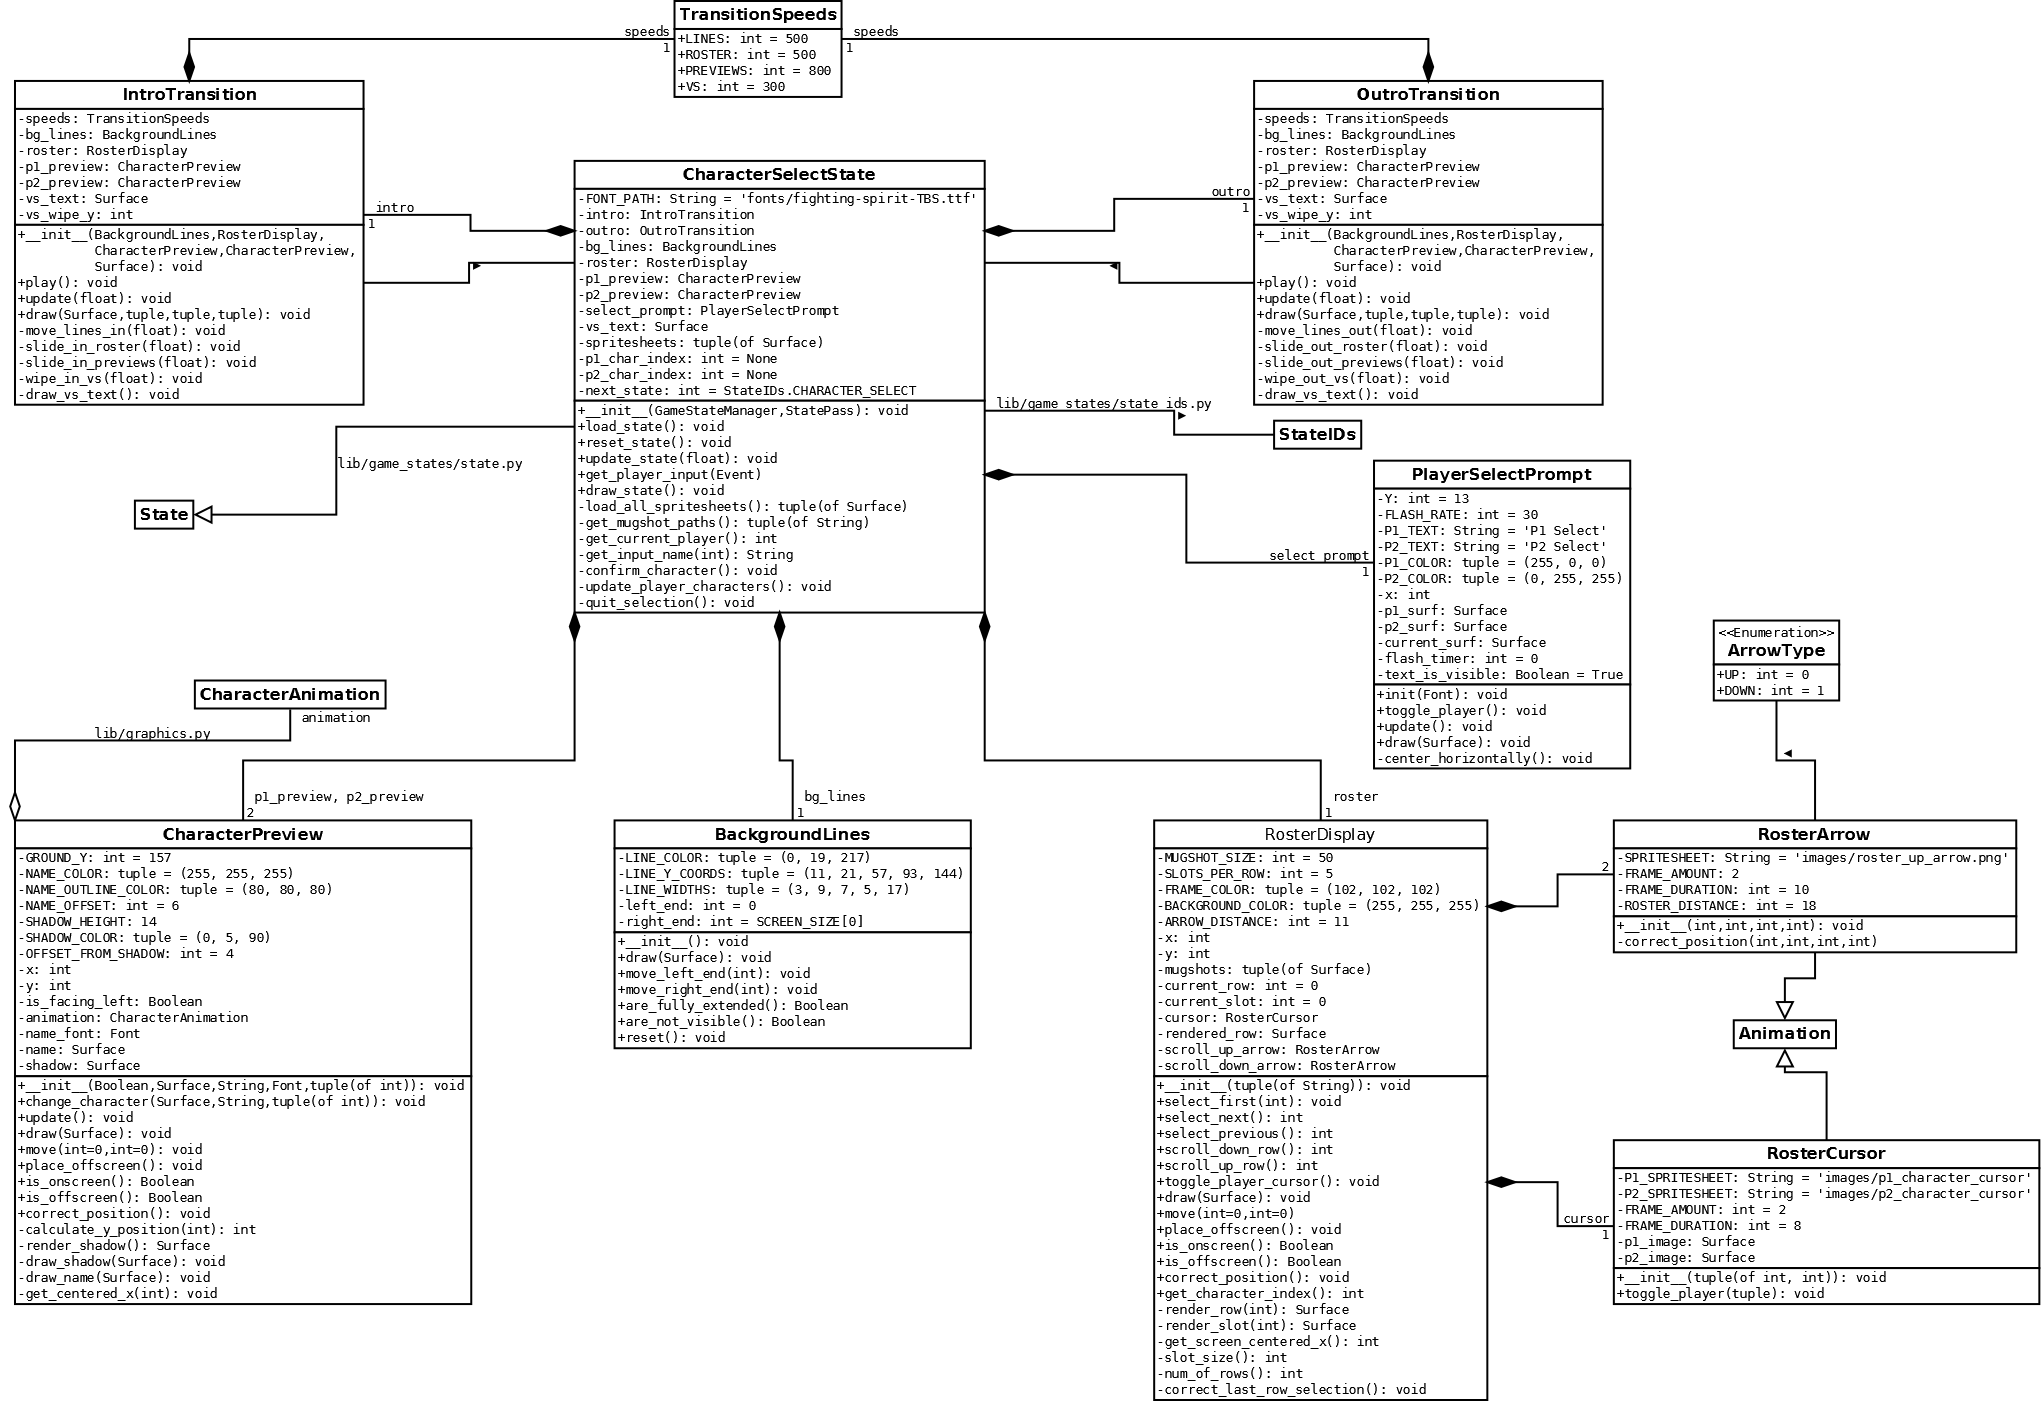
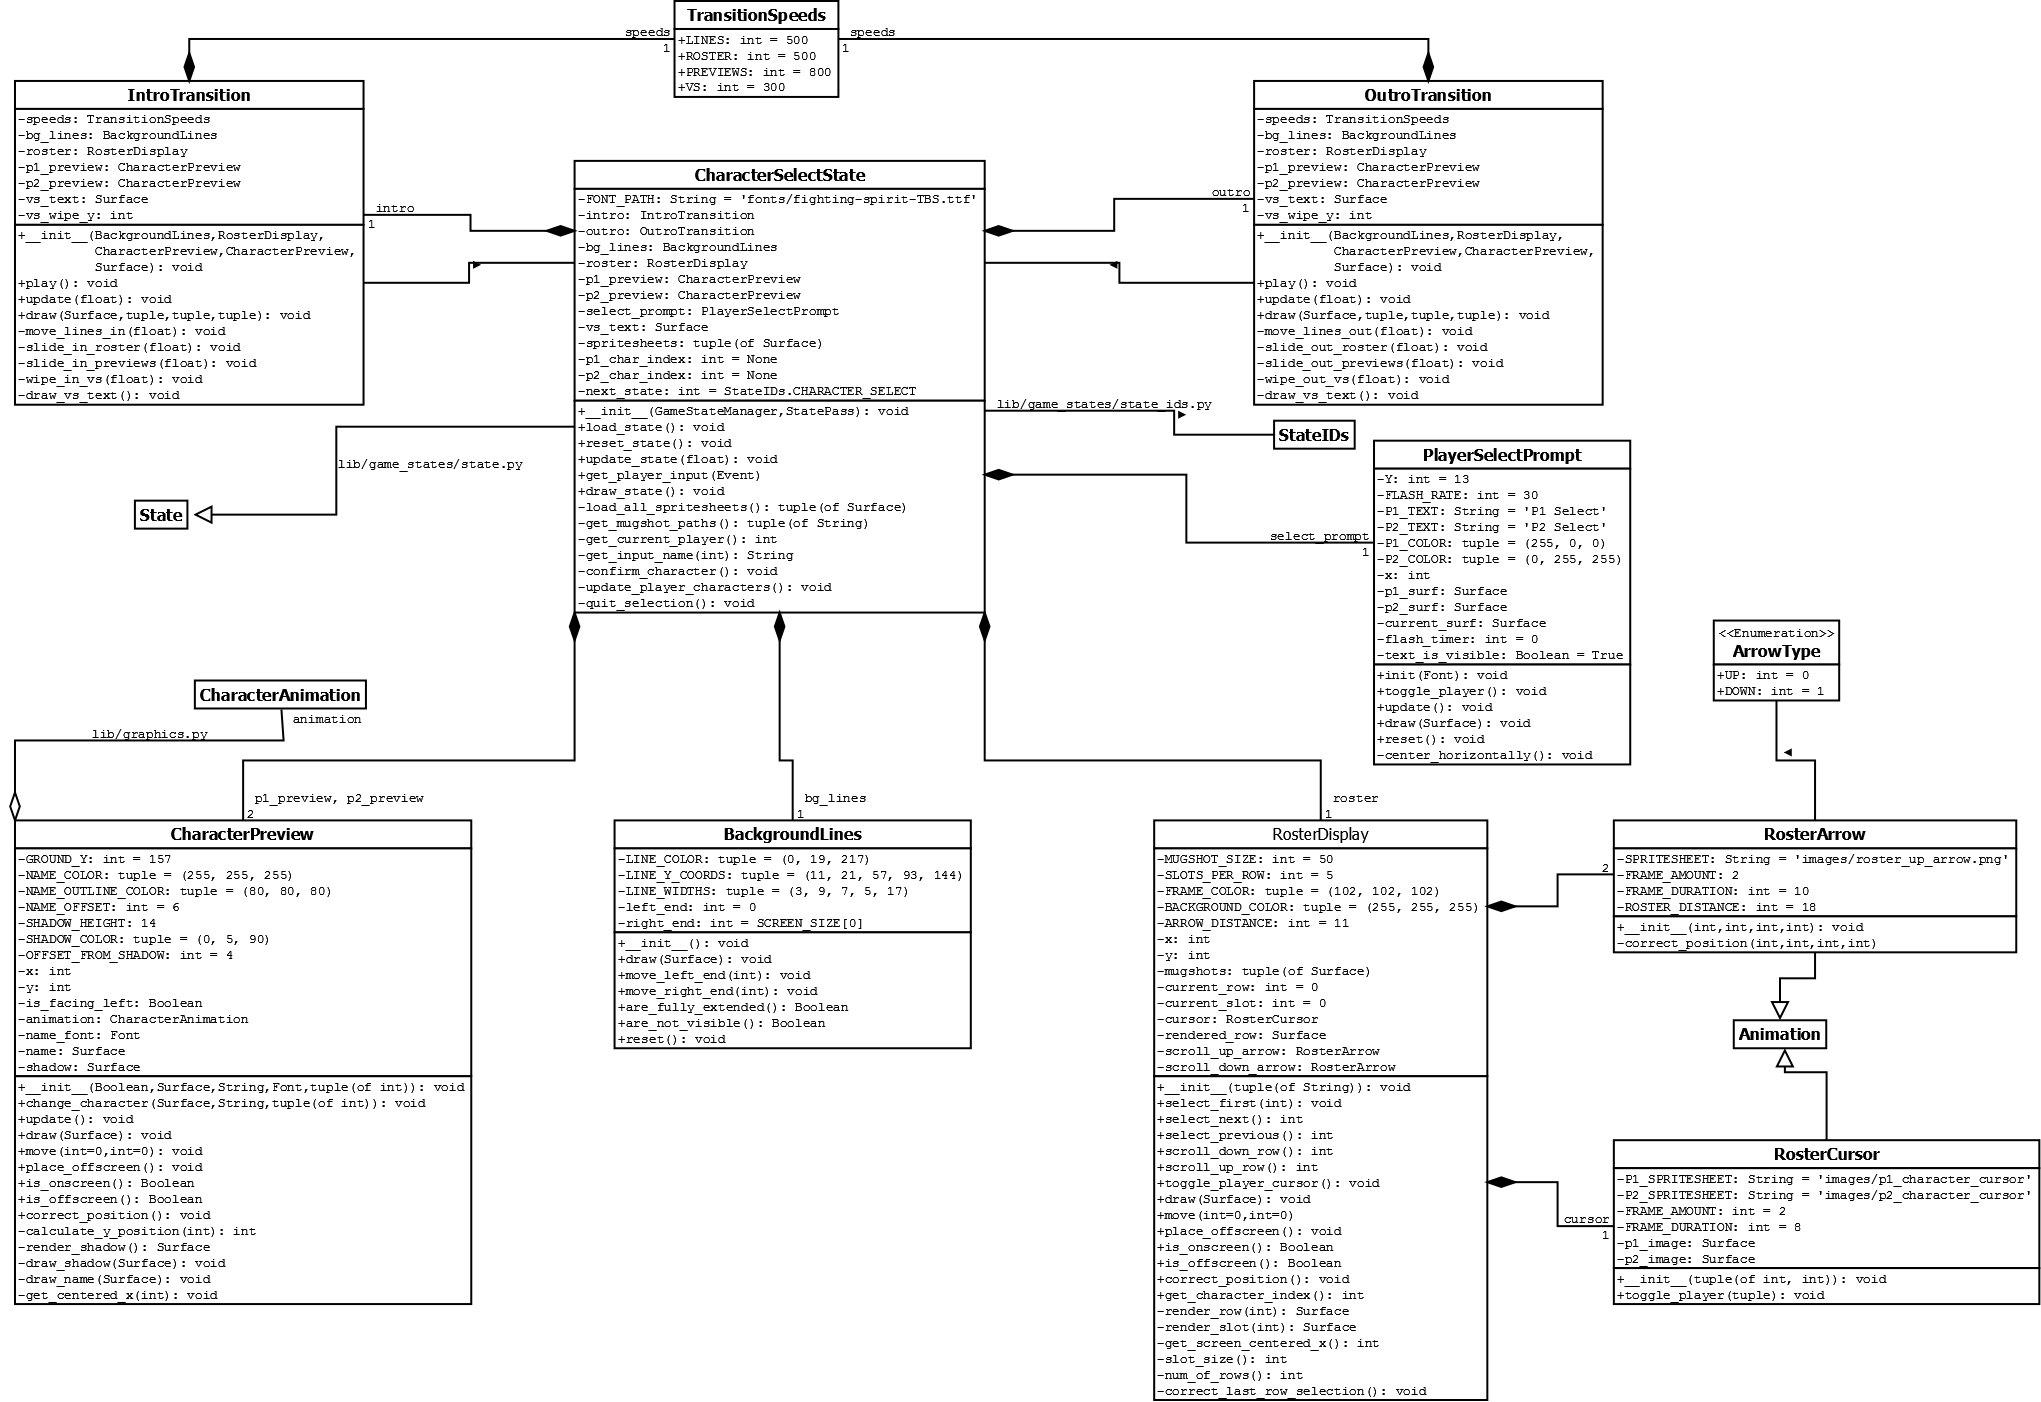
PlayerSelectPrompt: Add reset()

diff --git a/lib/game_states/character_select_state.py b/lib/game_states/character_select_state.py
@@ -94,6 +94,13 @@ class PlayerSelectPrompt(object):
         if self.text_is_visible:
             parent_surf.blit(self.current_surf, (self.x, self.Y))
 
+    def reset(self):
+        """Reset the flash and display player 1's prompt."""
+        self.text_is_visible = True
+        self.flash_timer = 0
+        self.current_surf = self.p1_surf
+        self.center_horizontally()
+    
 
 class BackgroundLines(object):
     """A series of action lines that will be drawn in the background.
